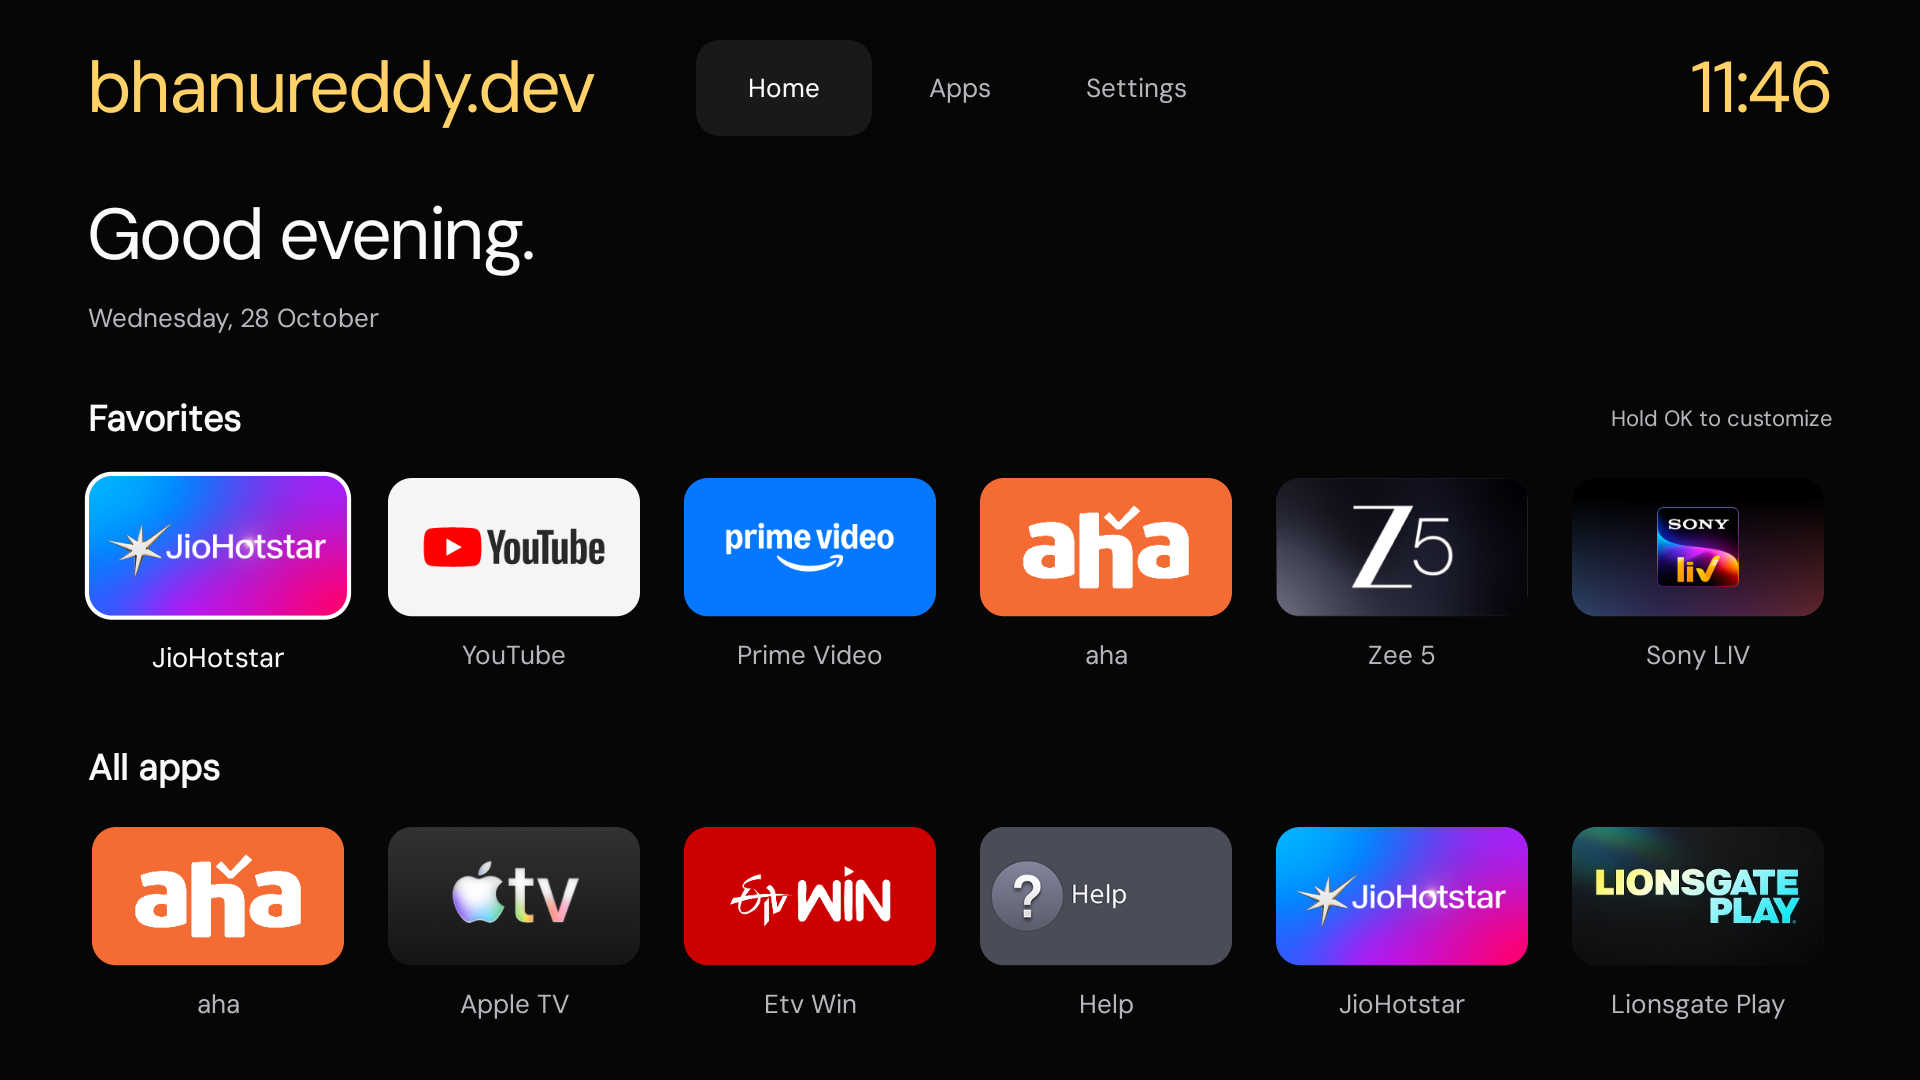
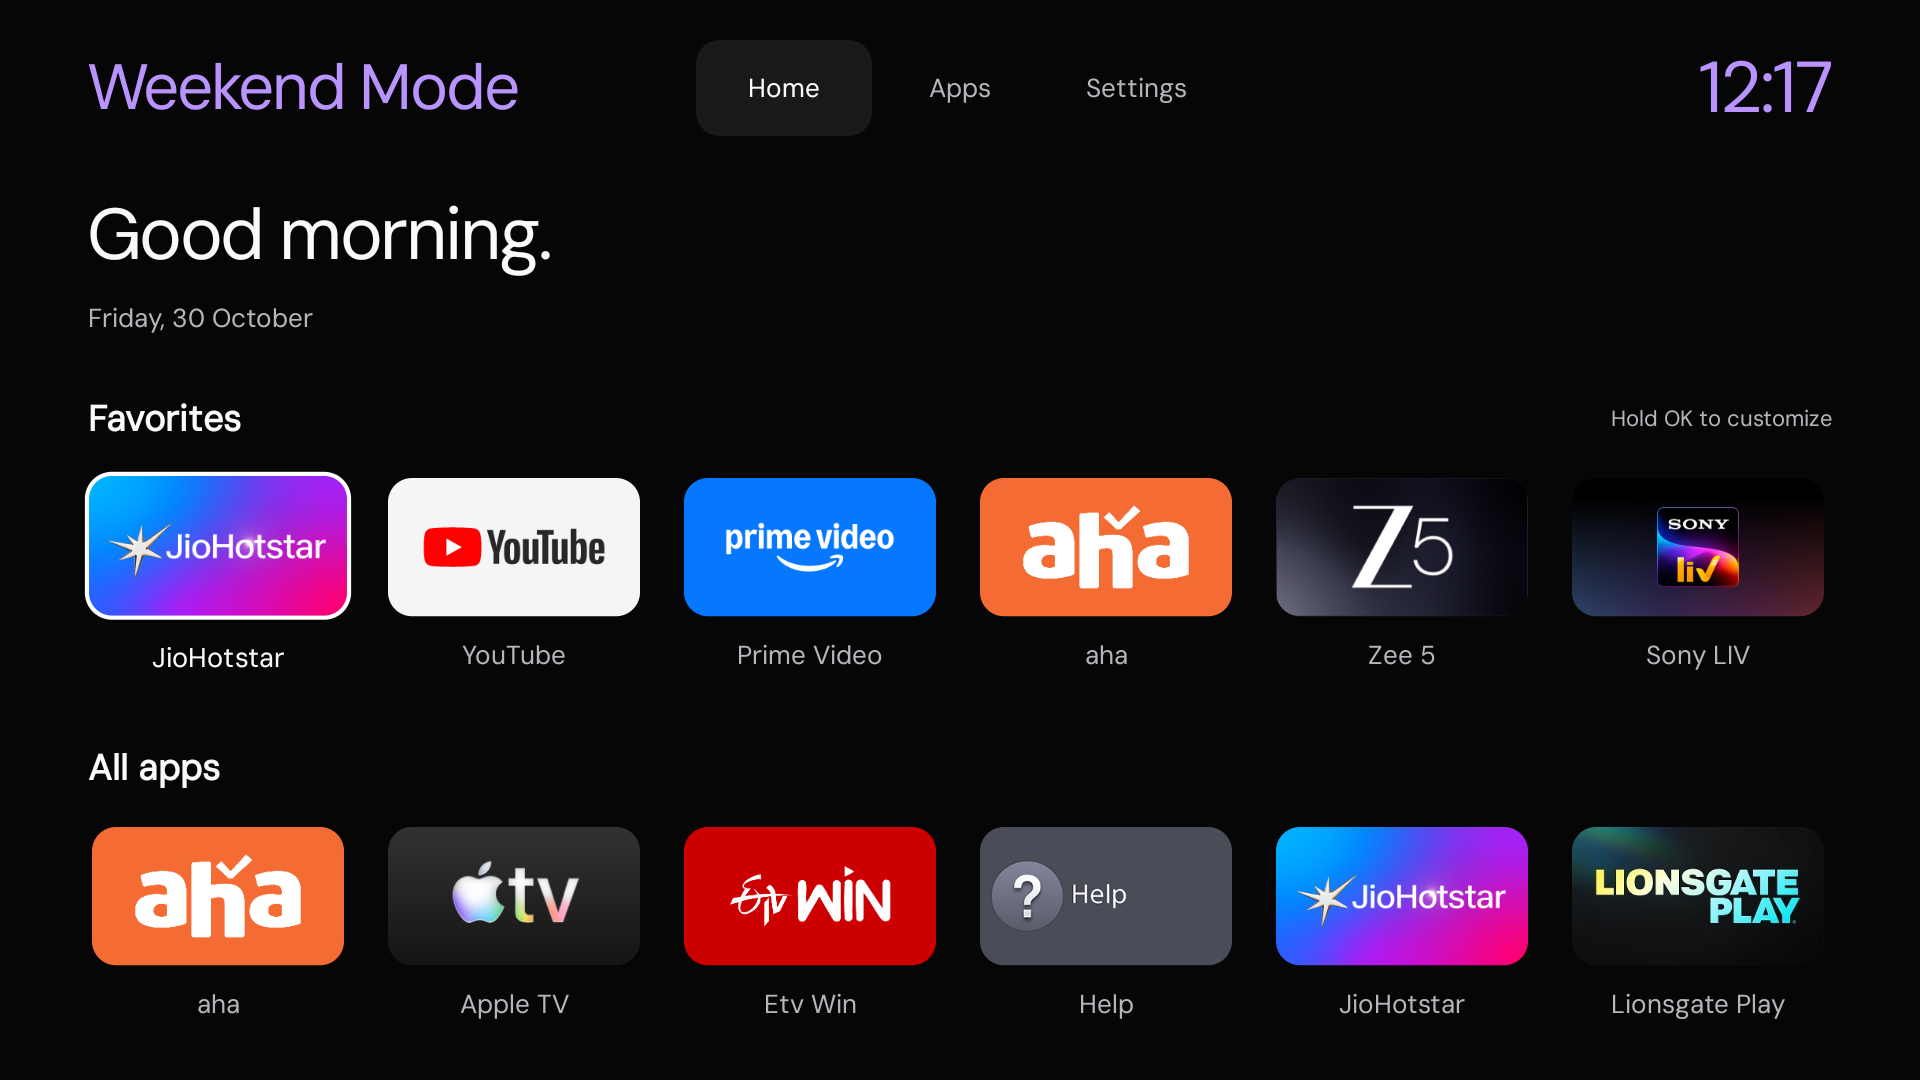
feat: rotate short phrases in home header

diff --git a/tests/device/HeaderProbe.java b/tests/device/HeaderProbe.java
@@ -1,0 +1,104 @@
+package dev.still.launcher.tests;
+
+import android.app.Activity;
+import android.app.Instrumentation;
+import android.content.ComponentName;
+import android.content.Intent;
+import android.os.Bundle;
+import android.text.StaticLayout;
+import android.text.TextUtils;
+import android.widget.TextView;
+import java.lang.reflect.Field;
+import java.lang.reflect.Method;
+import java.util.List;
+import org.json.JSONObject;
+
+/** Check all approved phrases against the TV's actual font metrics and header width. */
+public final class HeaderProbe extends Instrumentation {
+  @Override
+  public void onCreate(Bundle arguments) {
+    super.onCreate(arguments);
+    start();
+  }
+
+  @Override
+  public void onStart() {
+    JSONObject report = new JSONObject();
+    try {
+      Activity activity =
+          startActivitySync(
+              new Intent(Intent.ACTION_MAIN)
+                  .setComponent(
+                      new ComponentName("dev.still.launcher", "dev.still.launcher.MainActivity"))
+                  .addFlags(Intent.FLAG_ACTIVITY_NEW_TASK | Intent.FLAG_ACTIVITY_CLEAR_TASK));
+      waitForIdleSync();
+      Throwable[] failure = new Throwable[1];
+      runOnMainSync(
+          () -> {
+            try {
+              TextView brand = (TextView) field(activity, "brand");
+              TextView clock = (TextView) field(activity, "clock");
+              float scaled = activity.getResources().getDisplayMetrics().scaledDensity;
+              require(
+                  Math.abs(brand.getTextSize() / scaled - 32) < .01f, "Left header must be 32 sp");
+              require(
+                  Math.abs(clock.getTextSize() / scaled - 36) < .01f, "Clock must remain 36 sp");
+              Class<?> state =
+                  activity.getClassLoader().loadClass("dev.still.launcher.LauncherState");
+              Field pool = state.getDeclaredField("HEADLINES");
+              pool.setAccessible(true);
+              List<?> phrases = (List<?>) pool.get(null);
+              int width =
+                  brand.getWidth()
+                      - brand.getCompoundPaddingLeft()
+                      - brand.getCompoundPaddingRight();
+              require(width > 0, "Header must be laid out");
+              for (Object value : phrases) {
+                String phrase = (String) value;
+                StaticLayout layout =
+                    StaticLayout.Builder.obtain(phrase, 0, phrase.length(), brand.getPaint(), width)
+                        .setMaxLines(1)
+                        .setEllipsize(TextUtils.TruncateAt.END)
+                        .build();
+                require(layout.getEllipsisCount(0) == 0, "Clipped phrase: " + phrase);
+              }
+              String before = brand.getText().toString();
+              require(phrases.contains(before), "Displayed phrase must be approved");
+              Method render = activity.getClass().getDeclaredMethod("render");
+              render.setAccessible(true);
+              render.invoke(activity);
+              require(
+                  before.equals(((TextView) field(activity, "brand")).getText().toString()),
+                  "Appearance render must retain the current phrase");
+              report.put("phrases_fit", phrases.size());
+              report.put("left_sp", brand.getTextSize() / scaled);
+              report.put("clock_sp", clock.getTextSize() / scaled);
+              report.put("available_width_px", width);
+              report.put("appearance_retains_phrase", true);
+            } catch (Throwable error) {
+              failure[0] = error;
+            }
+          });
+      if (failure[0] != null) throw failure[0];
+      waitForIdleSync();
+    } catch (Throwable error) {
+      try {
+        report.put("error", error.toString());
+      } catch (Exception ignored) {
+      }
+    }
+    Bundle result = new Bundle();
+    result.putString("stream", "\nSTILL_TV_HEADER_JSON=" + report + "\n");
+    finish(report.has("error") ? Activity.RESULT_CANCELED : Activity.RESULT_OK, result);
+  }
+
+  private static Object field(Object target, String name) throws Exception {
+    Field field = target.getClass().getDeclaredField(name);
+    field.setAccessible(true);
+    return field.get(target);
+  }
+
+  private static void require(boolean value, String message) {
+    if (!value) throw new AssertionError(message);
+  }
+}

diff --git a/tests/LauncherStateTest.java b/tests/LauncherStateTest.java
@@ -1,6 +1,9 @@
 import dev.still.launcher.LauncherState;
 import java.util.Arrays;
 import java.util.Collections;
+import java.util.HashSet;
+import java.util.Random;
+import java.util.Set;
 
 public final class LauncherStateTest {
   public static void main(String[] args) {
@@ -38,6 +41,51 @@ public final class LauncherStateTest {
     check(LauncherState.Accent.parse("broken") == LauncherState.Accent.AMBER, "invalid accent");
     check(LauncherState.Accent.parse("CYAN") == LauncherState.Accent.CYAN, "saved accent");
     System.out.println("Launcher state: 26 checks passed");
+    checkHeadlineRotation();
+  }
+
+  private static void checkHeadlineRotation() {
+    Set<String> approved =
+        new HashSet<>(
+            Arrays.asList(
+                "Netflix & Chill",
+                "Stream & Dream",
+                "Binge & Bliss",
+                "Popcorn & Play",
+                "Pause Real Life",
+                "One More Episode",
+                "Just One More",
+                "Press Play",
+                "Enjoy the Show",
+                "Movie Night",
+                "Cinema Time",
+                "Lights Down",
+                "Get Comfy",
+                "Couch Mode On",
+                "Weekend Mode",
+                "Watch & Unwind",
+                "Stay Tuned",
+                "Roll the Credits",
+                "Good Vibes Only"));
+    Set<String> seen = new HashSet<>();
+    Random random = new Random(2026);
+    String previous = null;
+    for (int reload = 0; reload < 1000; reload++) {
+      String next = LauncherState.nextHeadline(previous, random);
+      check(approved.contains(next), "only approved phrases: " + next);
+      check(!next.equals(previous), "no immediate repeat after " + previous);
+      seen.add(next);
+      previous = next;
+    }
+    check(seen.equals(approved), "every approved phrase can appear");
+    check(
+        approved.contains(LauncherState.nextHeadline("removed phrase", random)),
+        "old saved phrase is replaced safely");
+    for (String phrase : approved) {
+      int words = phrase.split(" ").length;
+      check(words >= 2 && words <= 3, "two or three words: " + phrase);
+    }
+    System.out.println("Header rotation: 19 approved phrases and 1000 reloads passed");
   }
 
   private static double contrast(String a, String b) {

diff --git a/app/src/dev/still/launcher/MainActivity.java b/app/src/dev/still/launcher/MainActivity.java
@@ -32,6 +32,7 @@ import java.util.Calendar;
 import java.util.HashMap;
 import java.util.List;
 import java.util.Map;
+import java.util.concurrent.ThreadLocalRandom;
 
 /** Lifecycle, screen composition and menus; rendering/data/recovery are separate. */
 public final class MainActivity extends Activity implements AppCatalog.Listener {
@@ -52,6 +53,7 @@ public final class MainActivity extends Activity implements AppCatalog.Listener 
   private TextClock clock;
   private boolean registered, loaded;
   private String lastFocus;
+  private String headline = "Press Play";
   private int tileWidth;
   private final BroadcastReceiver packages =
       new BroadcastReceiver() {
@@ -133,8 +135,11 @@ public final class MainActivity extends Activity implements AppCatalog.Listener 
     header.setGravity(Gravity.CENTER_VERTICAL);
     header.setPadding(ui.dp(44), 0, ui.dp(44), 0);
     brand = new TextView(this);
-    brand.setText("bhanureddy.dev");
+    brand.setText(headline);
     ui.applyBrand(brand);
+    brand.setTextSize(32);
+    brand.setSingleLine(true);
+    brand.setEllipsize(TextUtils.TruncateAt.END);
     header.addView(brand, new LinearLayout.LayoutParams(0, -2, 1));
     header.addView(
         nav("Home", () -> focus(firstFavorite != null ? firstFavorite : firstApp), true));
@@ -529,6 +534,13 @@ public final class MainActivity extends Activity implements AppCatalog.Listener 
   public void onResume() {
     super.onResume();
     updateGreeting();
+    if (brand != null) {
+      headline =
+          LauncherState.nextHeadline(
+              prefs.getString("last_headline", null), ThreadLocalRandom.current());
+      brand.setText(headline);
+      prefs.edit().putString("last_headline", headline).apply();
+    }
   }
 
   @Override

diff --git a/app/src/dev/still/launcher/LauncherState.java b/app/src/dev/still/launcher/LauncherState.java
@@ -4,9 +4,39 @@ import java.util.ArrayList;
 import java.util.Arrays;
 import java.util.LinkedHashSet;
 import java.util.List;
+import java.util.Random;
 
 public final class LauncherState {
   private LauncherState() {}
+
+  private static final List<String> HEADLINES =
+      Arrays.asList(
+          "Netflix & Chill",
+          "Stream & Dream",
+          "Binge & Bliss",
+          "Popcorn & Play",
+          "Pause Real Life",
+          "One More Episode",
+          "Just One More",
+          "Press Play",
+          "Enjoy the Show",
+          "Movie Night",
+          "Cinema Time",
+          "Lights Down",
+          "Get Comfy",
+          "Couch Mode On",
+          "Weekend Mode",
+          "Watch & Unwind",
+          "Stay Tuned",
+          "Roll the Credits",
+          "Good Vibes Only");
+
+  /** Pick uniformly from the approved phrases, excluding the previous choice. */
+  public static String nextHeadline(String previous, Random random) {
+    int excluded = HEADLINES.indexOf(previous);
+    int index = random.nextInt(HEADLINES.size() - (excluded < 0 ? 0 : 1));
+    return HEADLINES.get(excluded >= 0 && index >= excluded ? index + 1 : index);
+  }
 
   public enum Theme {
     DARK("Dark", "#19191C", "#FAFAFC", "#B9B9C0", "#29292E", "#FFFFFF"),

diff --git a/tests/device/LauncherProbe.java b/tests/device/LauncherProbe.java
@@ -38,8 +38,8 @@ import org.json.JSONArray;
 import org.json.JSONObject;
 
 /**
- * Dependency-free, owner-invoked probe. No preferences, package states, or Home aliases are
- * written.
+ * Dependency-free, owner-invoked probe. Favorites, appearance and Home states are preserved;
+ * normal launcher resumes may advance its saved header phrase.
  */
 public final class LauncherProbe extends Instrumentation {
   private final AtomicLong firstAppsNs = new AtomicLong();

diff --git a/README.md b/README.md
@@ -23,11 +23,11 @@ https://github.com/user-attachments/assets/307e6c93-1d30-4624-87e2-7080323909da
 <details>
 <summary>View the home-screen screenshot</summary>
 
-![Still TV running on Sony BRAVIA with Neon amber and six favorites](docs/media/still-tv-home.png)
+![Still TV running on Sony BRAVIA with a rotating header and six favorites](docs/media/still-tv-home.png)
 
 </details>
 
-<sub>Actual 1080p TV recording, at normal playback speed, with ADB-injected D-pad input. Video frames and timing are preserved; container metadata is removed. This is a navigation demonstration, not a measurement of physical-remote latency. [Recording details](docs/evidence/navigation.json) · [Rendering measurements and limits](PERFORMANCE.md).</sub>
+<sub>Actual 1080p TV recording, at normal playback speed, with ADB-injected D-pad input. The recording predates the rotating header shown in the screenshot. Video frames and timing are preserved; container metadata is removed. This is a navigation demonstration, not a measurement of physical-remote latency. [Recording details](docs/evidence/navigation.json) · [Rendering measurements and limits](PERFORMANCE.md).</sub>
 
 ## Make room for your apps
 
@@ -48,7 +48,7 @@ Still TV brings a spacious app grid, clear D-pad focus and DM Sans typography to
 </tr>
 </table>
 
-The wordmark is **bhanureddy.dev**, matched to the clock in font, size and accent. **Super Dark + Neon amber** is the default appearance. Accents adapt for contrast in Light.
+The left header rotates between **19 short phrases**, including “Netflix & Chill,” “Press Play” and “One More Episode,” whenever Home reloads or resumes. The previous phrase is saved to prevent immediate repeats across restarts. Its 32 sp DM Sans type shares the clock's accent; the clock remains 36 sp. Theme and accent previews keep the current phrase. [All 19 phrases fit on the tested TV](docs/evidence/rotating-header.json). **Super Dark + Neon amber** is the default appearance. Accents adapt for contrast in Light.
 
 ## Get started
 

diff --git a/tests/device/README.md b/tests/device/README.md
@@ -18,12 +18,21 @@ adb -s TV_SERIAL shell am instrument -w -e mode audit dev.still.launcher.tests/.
 adb -s TV_SERIAL shell am instrument -w -e mode cold-artwork dev.still.launcher.tests/.LauncherProbe
 adb -s TV_SERIAL shell am instrument -w -e mode navigation dev.still.launcher.tests/.LauncherProbe
 adb -s TV_SERIAL shell am instrument -w -e mode cache dev.still.launcher.tests/.LauncherProbe
+adb -s TV_SERIAL shell am instrument -w dev.still.launcher.tests/.HeaderProbe
 adb -s TV_SERIAL uninstall dev.still.launcher.tests
 ```
 
 The target app must already be installed with the same signing certificate.
-The instrumentation opens a fresh MainActivity task, without changing preferences,
-clearing app data, touching recovery flags or changing any Home/package state.
+`HeaderProbe` checks that all 19 approved phrases fit without ellipsis at the
+TV's actual font scale and width, the left header is 32 sp, the clock remains
+36 sp, and rebuilding appearance retains the current phrase. Inspect
+`STILL_TV_HEADER_JSON=` for errors. Its fresh Activity launch advances the saved
+phrase through the launcher's normal resume behavior.
+
+The instrumentation opens a fresh MainActivity task. The launcher naturally
+advances its saved header phrase on resume; favorites and appearance settings
+are preserved. The probe does not clear app data, touch recovery flags or change
+Home/package state.
 Normal launcher cache reads/writes still occur. If safe mode prevents catalog
 creation, the report records an error; the helper does not dismiss recovery.
 Only the explicitly selected `cold-artwork` mode deletes regular files directly
